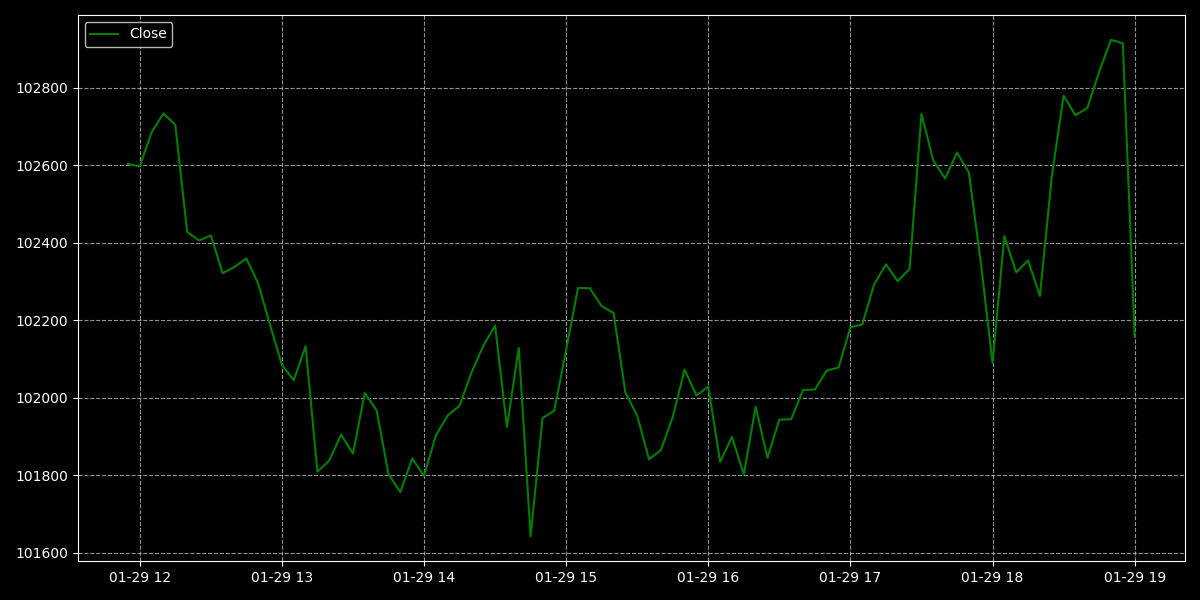
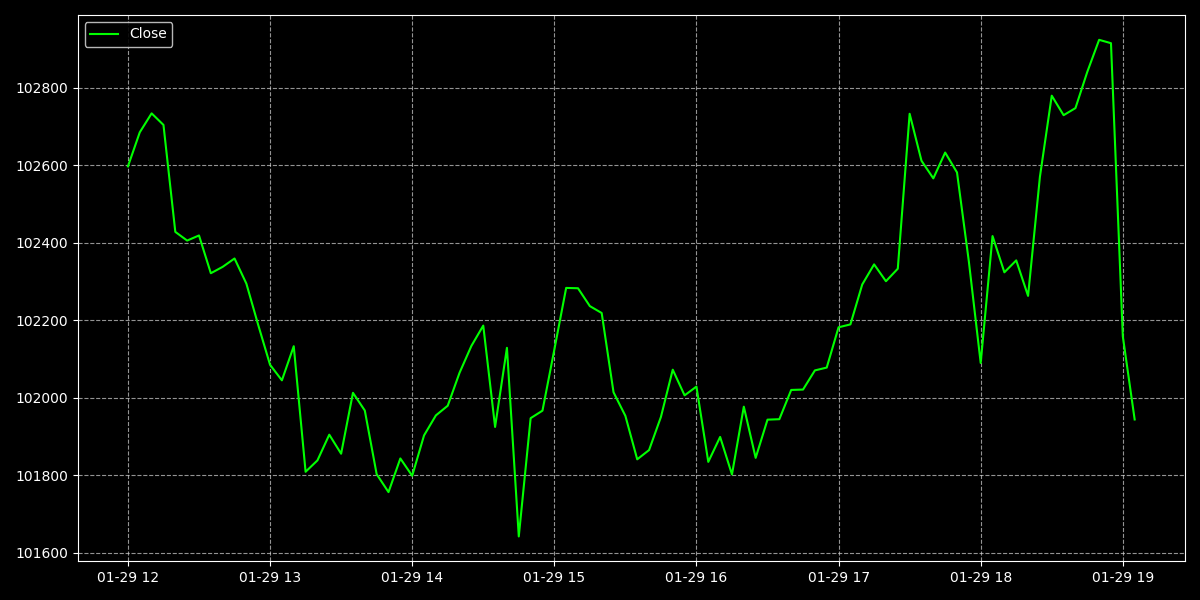
1/29 part 3

diff --git a/Client.py b/Client.py
@@ -23,7 +23,7 @@ def time_now(country = "America", city = "New_York"):
     time = datetime.now(ZoneInfo(f"{country}/{city}"))
     return time
 
-class Account:
+class Client:
     #stack = [] mutiple account
     API_KEY = str
     SECRET_KEY = str
@@ -37,7 +37,7 @@ class Account:
 #open the account using the API Key
     def __init__(self, name):
         self.name = name
-        self.client = TradingClient(api_key=Account.API_KEY, secret_key=Account.SECRET_KEY, paper=Account.paper)
+        self.client = TradingClient(api_key=Client.API_KEY, secret_key=Client.SECRET_KEY, paper=Client.paper)
         self.position = self.client.get_all_positions()
         self.account = self.client.get_account()
 
@@ -50,7 +50,6 @@ class Account:
         return None
     
     def focus(self, symbol):
-        print(symbol)
         error = False
         try:
             self.symbol = self.client.get_asset(symbol_or_asset_id=symbol)
@@ -72,12 +71,12 @@ class Account:
         )
         if self.symbol.exchange == "CRYPTO":
             if type.upper() == "BAR":
-                crypto_history = CryptoHistoricalDataClient(api_key=Account.API_KEY, secret_key=Account.SECRET_KEY)
+                crypto_history = CryptoHistoricalDataClient(api_key=Client.API_KEY, secret_key=Client.SECRET_KEY)
                 bar = crypto_history.get_crypto_bars(data).df
 
         elif self.symbol.exchange != "CRYPTO":
             if type.upper() == "BAR":
-                stock_history = StockHistoricalDataClient(api_key=Account.API_KEY, secret_key=Account.SECRET_KEY)
+                stock_history = StockHistoricalDataClient(api_key=Client.API_KEY, secret_key=Client.SECRET_KEY)
                 bar = stock_history.get_stock_bars(data).df
 
         else:

diff --git a/Statistic.py b/Statistic.py
@@ -3,7 +3,7 @@ import csv
 import numpy as np
 import pandas as pd
 
-class Plot:
+class Statistic:
     data = None
     symbol = str
 
@@ -27,10 +27,18 @@ class Plot:
     def create(self):#create and delete file by focus
         self.data.to_csv(f"{self.file_name}.csv")
         print(f"\t - Recorded: {self.file_name}")
-        #open(f"{self.file_name}.csv", "w")
+        
 
     def read(self):
         data = pd.read_csv(f'{self.file_name}.csv')
+        data = pd.DataFrame({
+            'Date': pd.to_datetime(data['timestamp']),
+            'Close': data['close']
+            #open
+            #low
+            #high
+        })
+        open(f"mod_{self.file_name}.csv", "w")
         return data
 
     def format_plot(self, title, xlabel, ylabel, grid=True):
@@ -66,7 +74,7 @@ class Plot:
         ylabel  = 'Close Price ($)')
             
         data = self.read()
-        x = pd.to_datetime(data['timestamp'])
+        x = data['timestamp']
 
         #y_low = data['low']
         y_close = data['close']
@@ -74,7 +82,7 @@ class Plot:
 
         plt.cla()  # Clear the current axes.
         #plt.plot(x, y_low, label='Low', color='blue', linestyle='-', linewidth=1.5)
-        plt.plot(x, y_close, label='Close', color='green', linestyle='-', linewidth=1.5)
+        plt.plot(x, y_close, label='Close', color='lime', linestyle='-', linewidth=1.5)
         #plt.plot(x, y_high, label='High', color='red', linestyle='-', linewidth=1.5)
         
         plt.legend(loc='best') 

diff --git a/main.py b/main.py
@@ -1,15 +1,15 @@
 from model import *
-from plot import *
-from data import *
+from Statistic import *
+from Client import *
 
 import questionary as qu
 
 def open_account(api_key, secret_key, paper, name):
     global account
-    Account.API_KEY = api_key
-    Account.SECRET_KEY = secret_key
-    Account.paper = paper
-    account = Account(name = f'{name}')
+    Client.API_KEY = api_key
+    Client.SECRET_KEY = secret_key
+    Client.paper = paper
+    account = Client(name = f'{name}')
     return account
 
 def get_account(name):
@@ -33,9 +33,10 @@ def task(symbol, type):
     for sym in symbol:
         account.focus(sym)
         hist_data = account.history(type, time = 0.3, step = 5)
-        plot = Plot(sym, hist_data)
-        plot.create()
-        plot.graph()
+        
+        data = Statistic(sym, hist_data)
+        data.create()
+        data.graph()
     #for loop of focus array
     #get file name 
     #live_data = account.stream(symbol)
